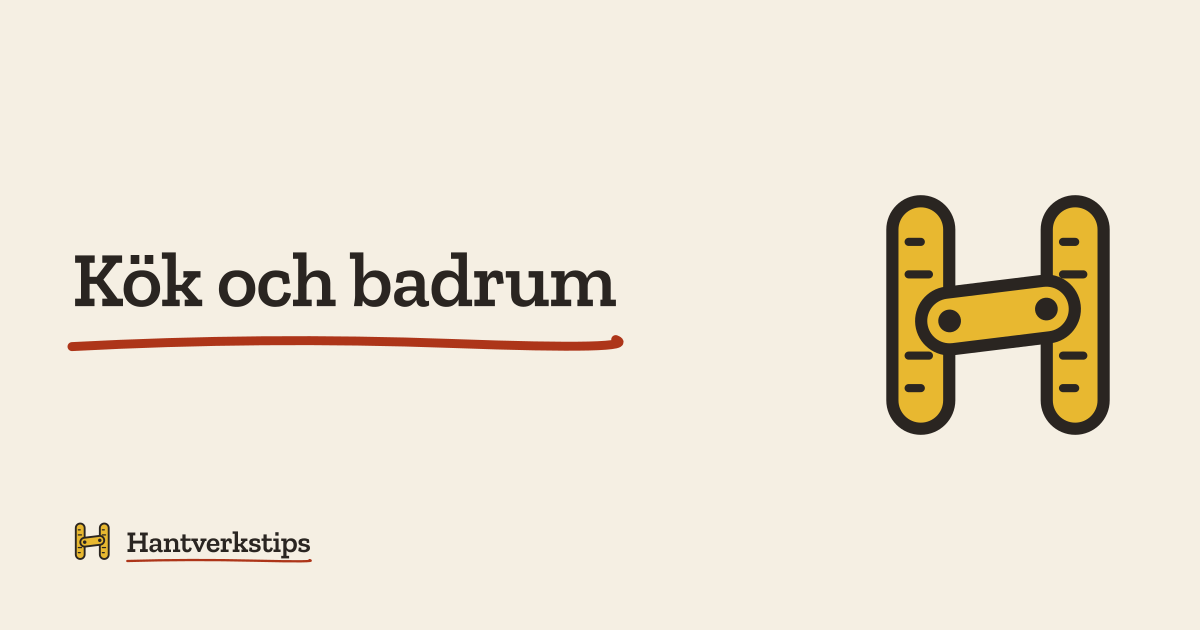
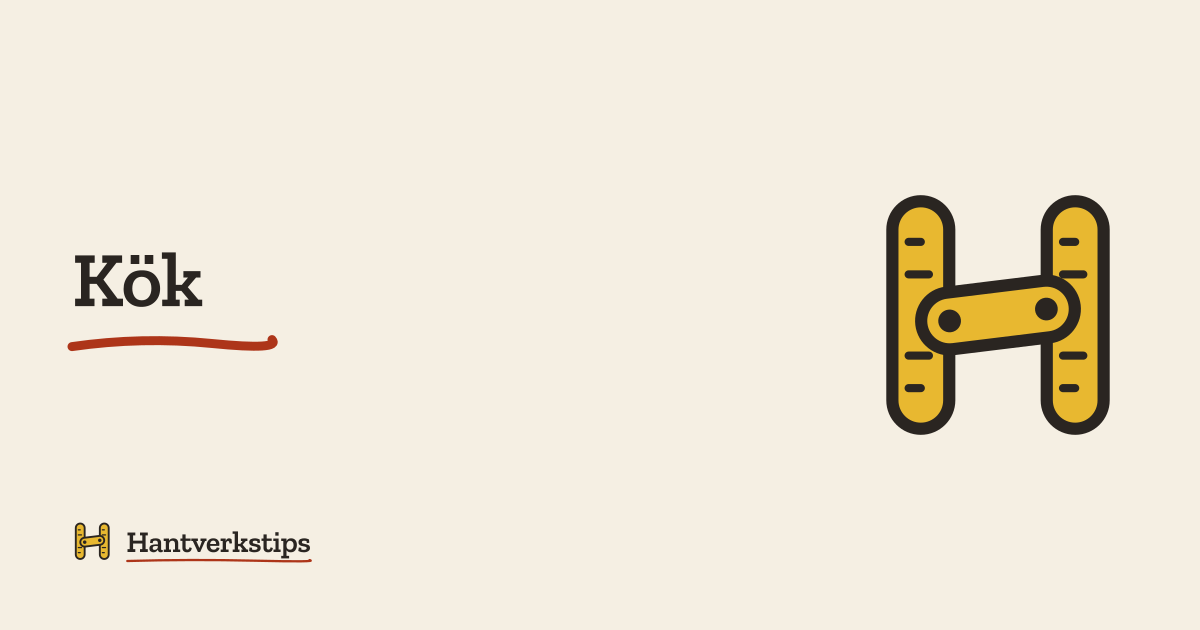
Publicera badrum och kök med räknaren för badrumskostnad
Badrum: tätskikt, fogar, våtrumsfärg och byta toalettstol, hubben och
räknaren för vad det kostar att renovera badrummet. Kök: måla kakel,
måla köksluckor och byta köksluckor, och hubben går ut. Inlänkar från
gipsskruv, luftfuktighet och bänkskivan. Omdirigeringen från /kok/ är
borttagen.

Changed region(s): [[0.185, 0.3921, 0.5242, 0.573], [0.0617, 0.5127, 0.1542, 0.573]]

diff --git a/src/lib/kalkyl/register.ts b/src/lib/kalkyl/register.ts
@@ -166,6 +166,16 @@ export const KALKYLATORER: Kalkylator[] = [
     pelare: ['fasad', 'altan'],
   },
   {
+    slug: 'badrum-kostnad',
+    /* Bär "renovera badrum" och "kostar"; ankartext i korten och hubben. */
+    namn: 'Vad kostar det att renovera badrummet?',
+    rad: 'Skriv in golvytan och hur påkostat det ska bli, så får du priset post för post, med arbete och material för sig, och vad du betalar efter rotavdraget.',
+    /* "renovera badrum kostnad" toppar september till oktober (SOKORDSANALYS 8.2),
+       och badrummen planeras över vintern. raknare.md punkt 1. */
+    sasong: [9, 3],
+    pelare: ['badrum'],
+  },
+  {
     slug: 'fasadyta',
     /* Bär SEO:s fras; ankartext i guiden. */
     namn: 'Beräkna fasadyta och färg till huset',
